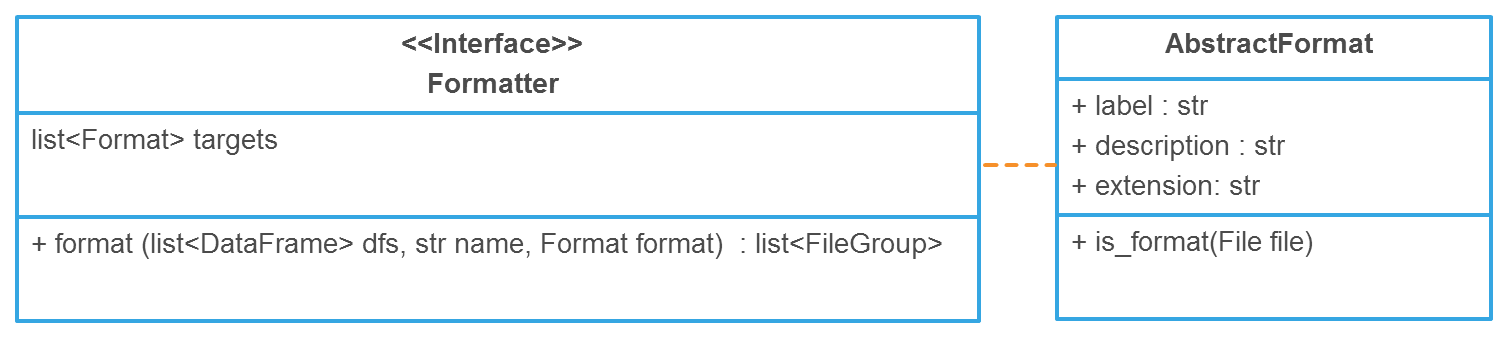
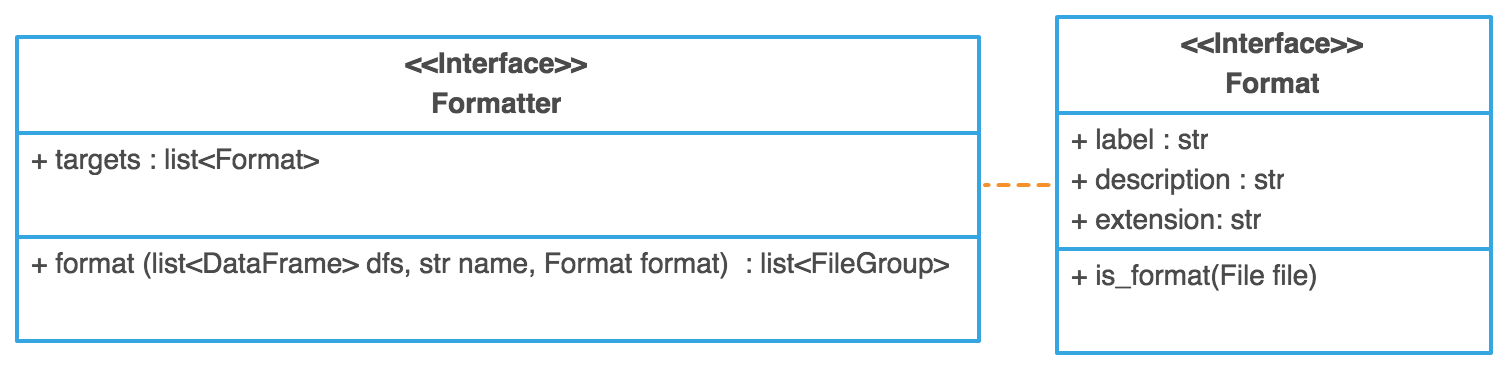
wip

diff --git a/presentation/final/index.html b/presentation/final/index.html
@@ -268,15 +268,53 @@
                     <section>
                         <h2>ODHQL - Daten transformieren</h2>
                         <p>OpenDataHub Query Language</p>
-                        <!-- fscala -->
+                    </section>
 
+                    <section>
+                        <h2>Syntax Parsing</h2>
+                        <ul>
+                            <li>evtl chuesler?</li>
+                        </ul>
+                    </section>
+
+                    <section>
+                        <h2>Interpreter</h2>
+                        <ul>
+                            <li>Performance durch Vektor-Operationen</li>
+                            <li>Kompakter, performanter Core</li>
+                            <li>Funktionale Erweiterung durch ODHQL Funktionen</li>
+                            <img src="img/function.png"/>
+                        </ul>
                     </section>
 
                     <section>
                         <h2>Formatter - Daten konvertieren</h2>
                         <img src="img/formatter.png"/>
                         <ul>
-                            <li>WIP</li>
+                            <li>Gegenstück zu Parser</li>
+                            <li>Implementierte Formate analog Parser</li>
+                        </ul>
+                    </section>
+
+                    <section>
+                        <h2>ogr2ogr &quot;Workaround&quot;</h2>
+                        <ul>
+                            <li>Fehlende Formate temporär über ogr2ogr</li>
+                        </ul>
+                        <img src="img/ogr2ogr.png"/>
+                        <ul>
+                            <li>Besser: GDAL Python API</li>
+                        </ul>
+                    </section>
+
+                    <section>
+                        <h2>Erweiterbarkeit</h2>
+                        <ul>
+                            <li>&quot;plugins&quot; Verzeichnis für auto-loading</li>
+                            <ul>
+                                <li>Neue Formate, Parser und Formatter</li>
+                                <li>ODHQL Funktionen</li>
+                            <ul>
                         </ul>
                     </section>
 
@@ -302,20 +340,56 @@
                     </section>
 
                     <section>
-                        <h2>Vorgehensmodell</h2>
+                        <h2>Vorgehensmodell - Scrum</h2>
+                        <img src="img/scrum.png"/>
+                        <ul>
+                            <li>Iterativ, 2 Wochen</li>
+                            <li>Daily Standups um 10:00</li>
+                            <li>Continuous Integration &amp; Deliverables
+                            <li>Wöchentlicher &quot;Kundenkontakt&quot;</li>
+                        </ui>
                     </section>
 
                     <section>
                         <h2>Planung</h2>
+                        <ul>
+                            <li>1. Woche: Kick-off</li>
+                            <li>Iterativ
+                            <ul>
+                                <li>Analyse</li>
+                                <li>Design</li>
+                                <li>Implementation</li>
+                            </ul>
+                            </li>
+                            <li>Feature-Freeze
+                            <ul><li>1 Bugfixing-Sprint</li></ul>
+                            </li>
+                            <li>Code-Freeze
+                                <ul><li>1 Dokumentations-Sprint</li></ul>
+                            </li>
+                        </ul>
                     </section>
 
                     <section>
-                        <h2>Testing</h2>
+                        <h2>Planung - JIRA</h2>
+                        <img src="img/jira-agile.png"/>
+                    </section>
+
+                    <section>
+                        <h2>Qualität - Reviews</h2>
+                        <img src="img/jira-workflow.png"/>
+                    </section>
+
+                    <section>
+                        <h2>Qualität - Testing</h2>
+                        <ul>
+
+                        </ul>
                     </section>
 
                     <section>
                         <h2>Infrastruktur</h2>
-                        <img class="fragment" src="img/devenv.png"/>
+                        <img src="img/devenv.png"/>
                     </section>
 
                     <section>
